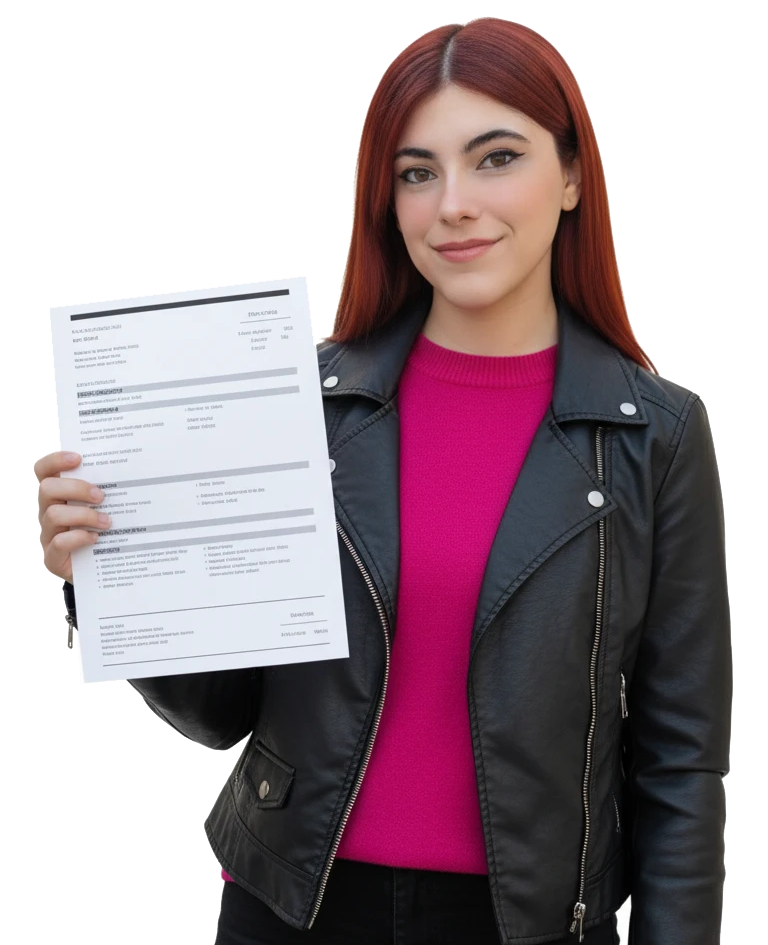
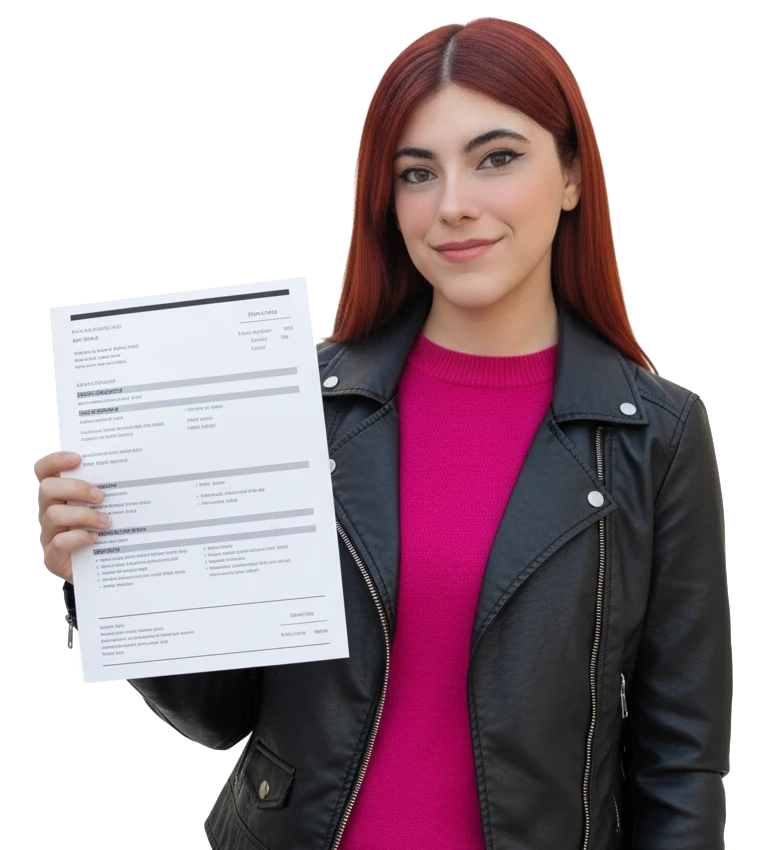
Foto a la cintura, Instagram en testimonios

Changed region(s): [[0.0312, 0.0, 0.9688, 1.0], [0.6562, 0.7647, 0.6875, 0.8259], [0.8438, 0.6118, 0.875, 0.6424]]

diff --git a/components/admin/testimonials-admin.tsx b/components/admin/testimonials-admin.tsx
@@ -5,16 +5,16 @@ import { Plus, Star, Trash2 } from 'lucide-react'
 import { errorMessage, supabase } from '@/lib/supabase'
 import { Button, Field, cardClass, inputClass, useFlash } from './ui'
 
-type Row = { id: string; name: string; text: string; service: string | null; rating: number; active: boolean; sort: number }
+type Row = { id: string; name: string; text: string; service: string | null; rating: number; active: boolean; sort: number; instagram: string | null }
 
 function TestimonialEditor({ item, onChanged }: { item: Row; onChanged: () => void }) {
-  const [form, setForm] = useState({ name: item.name, text: item.text, service: item.service ?? '', rating: item.rating, active: item.active, sort: String(item.sort) })
+  const [form, setForm] = useState({ name: item.name, text: item.text, service: item.service ?? '', instagram: item.instagram ?? '', rating: item.rating, active: item.active, sort: String(item.sort) })
   const [busy, setBusy] = useState(false)
   const flash = useFlash()
 
   async function save() {
     setBusy(true)
-    const { error } = await supabase.from('testimonials').update({ name: form.name.trim(), text: form.text.trim(), service: form.service.trim() || null, rating: form.rating, active: form.active, sort: Number(form.sort) || 0 }).eq('id', item.id)
+    const { error } = await supabase.from('testimonials').update({ name: form.name.trim(), text: form.text.trim(), service: form.service.trim() || null, instagram: form.instagram.trim().replace(/^@/, '') || null, rating: form.rating, active: form.active, sort: Number(form.sort) || 0 }).eq('id', item.id)
     setBusy(false)
     if (error) flash.show('error', errorMessage(error)); else { flash.show('ok', 'Guardado. Se ve en la web en 1 minuto.'); onChanged() }
   }
@@ -31,6 +31,7 @@ function TestimonialEditor({ item, onChanged }: { item: Row; onChanged: () => vo
         <Field label="Nombre (ej: Lucía G.)"><input value={form.name} onChange={(event) => setForm((c) => ({ ...c, name: event.target.value }))} className={inputClass} /></Field>
         <Field label="Servicio (opcional)"><input value={form.service} onChange={(event) => setForm((c) => ({ ...c, service: event.target.value }))} placeholder="Pack Premium" className={inputClass} /></Field>
       </div>
+      <Field label="Instagram de la clienta (sin @, opcional)"><input value={form.instagram} onChange={(event) => setForm((c) => ({ ...c, instagram: event.target.value }))} placeholder="usuario" className={inputClass} /></Field>
       <Field label="Testimonio"><textarea rows={3} value={form.text} onChange={(event) => setForm((c) => ({ ...c, text: event.target.value }))} className={inputClass} /></Field>
       <div className="flex flex-wrap items-center gap-4 text-sm">
         <div className="flex items-center gap-1" role="radiogroup" aria-label="Estrellas">

diff --git a/components/testimonials.tsx b/components/testimonials.tsx
@@ -2,11 +2,11 @@ import { Star } from 'lucide-react'
 import { CONTACT } from '@/lib/catalog'
 import { supabase } from '@/lib/supabase'
 
-type Testimonial = { id: string; name: string; text: string; service: string | null; rating: number }
+type Testimonial = { id: string; name: string; text: string; service: string | null; rating: number; instagram: string | null }
 
 /** Client reviews (managed in /admin), scrollable on phones, plus the link to the Instagram post. */
 export async function Testimonials() {
-  const { data } = await supabase.from('testimonials').select('id, name, text, service, rating').eq('active', true).order('sort').limit(9)
+  const { data } = await supabase.from('testimonials').select('id, name, text, service, rating, instagram').eq('active', true).order('sort').limit(9)
   const items = (data as Testimonial[] | null) ?? []
 
   return (
@@ -26,6 +26,7 @@ export async function Testimonials() {
               </div>
               <blockquote className="mt-3 flex-1 leading-relaxed text-ink">“{item.text}”</blockquote>
               <p className="mt-4 font-display text-sm font-bold text-ciruela">{item.name}</p>
+              {item.instagram && <a href={`https://www.instagram.com/${item.instagram}/`} target="_blank" rel="noreferrer" className="text-sm font-semibold text-rosa-deep hover:underline">@{item.instagram}</a>}
               {item.service && <p className="text-xs text-piedra">{item.service}</p>}
             </li>
           ))}

diff --git a/app/asesorias/page.tsx b/app/asesorias/page.tsx
@@ -50,7 +50,7 @@ export default async function AsesoriasPage() {
           </div>
           <div className="relative mx-auto w-full max-w-sm">
             <div className="absolute inset-x-4 bottom-0 top-28 -z-10 rounded-t-full bg-petalo-wash" aria-hidden="true" />
-            <Image src="/img/valeria-cv-recorte.png" alt="Valeria, de Armado de CV Asesorías" width={768} height={945} priority className="h-auto w-full" />
+            <Image src="/img/valeria-cv-recorte.png" alt="Valeria, de Armado de CV Asesorías" width={768} height={850} priority className="h-auto w-full" />
           </div>
         </div>
       </section>
